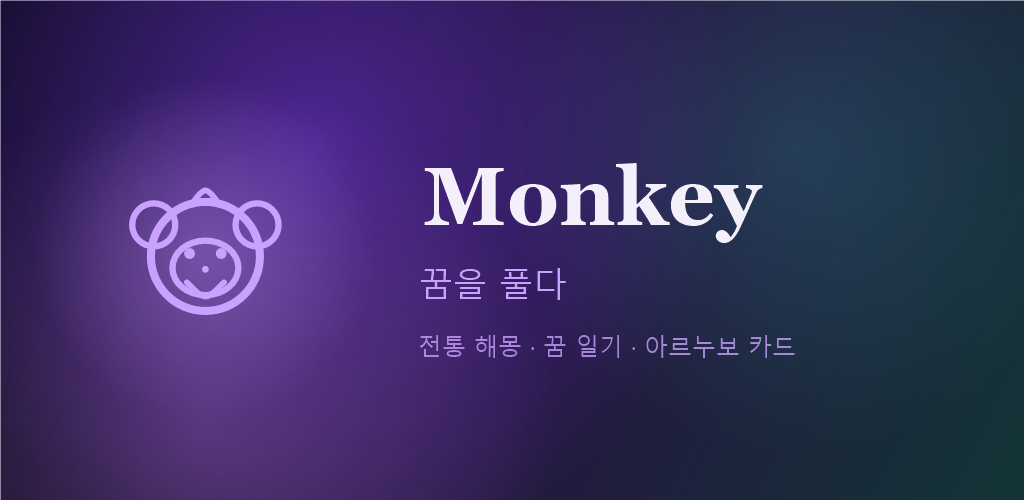
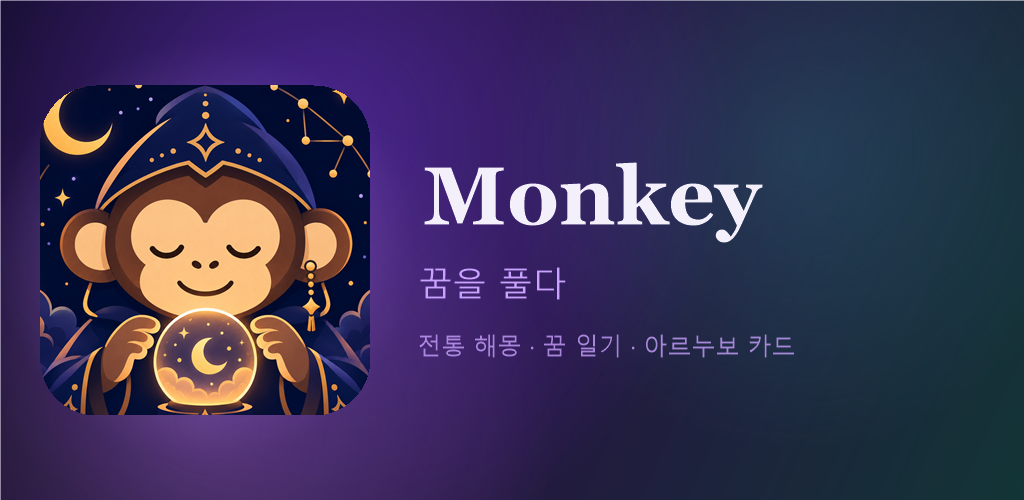
feat(store-assets): 스토어 그래픽의 원숭이를 앱 아이콘 일러스트로 통일
앱 안(런처/스플래시/인앱 마스코트)은 원숭이 점술가 일러스트인데, 스토어
그래픽만 옛 라인아트 원숭이라 두 종류가 섞여 있었다. gen-store-graphics.ps1이
라인아트를 코드로 그려서 만들었고(Draw-Mascot), 아이콘 교체(07-12) 이후
피처 그래픽은 재생성되지 않았던 탓.

- gen-store-graphics.ps1: Draw-Mascot 제거, icon.png를 둥근 사각형으로
  합성하는 Draw-MonkeyIcon으로 교체. 크롭 비율은 apply-monkey-icon.ps1과 동일.
- gen-store-graphics.ps1: icon-512.png 생성 코드 제거. 재실행 시 좋은 아이콘을
  옛 라인아트로 덮어쓰는 사고를 막는다. 아이콘 계열은 apply-monkey-icon.ps1이
  단독 소유.
- refresh-splash-screenshot.py 신규: 스플래시 스크린샷의 마스코트만 교체.
  SplashScreen(halo 148dp) + Mascot(92dp, 모서리 22%, glow 16%) 규칙을 그대로
  재현하고, 스크린샷에서 halo 지름을 실측(388px)해 밀도 2.6216을 역산했다.
- 스크린샷 6장 전수 확인 결과 원숭이가 나오는 건 splash 1장뿐.

diff --git a/scripts/refresh-splash-screenshot.py b/scripts/refresh-splash-screenshot.py
@@ -1,0 +1,91 @@
+# scripts/refresh-splash-screenshot.py
+# ---------------------------------------------------------------
+# docs/release/store-assets/screenshot-1-splash.png 의 마스코트를
+# 옛 라인아트 원숭이 → 현재 앱이 실제로 렌더하는 원숭이 점술가 일러스트로 교체한다.
+#
+# 왜 합성인가: 스크린샷은 2026-07-11 캡처분이고, 원숭이 아이콘 교체는 07-12였다.
+# 에뮬레이터 재캡처가 정석이지만(빌드+Metro+설치 필요), 스플래시 화면은 정적이라
+# 앱의 실제 렌더 규칙을 그대로 재현하면 재캡처와 동일한 결과가 나온다.
+#
+# 재현하는 규칙 (frontend/src/screens/SplashScreen.tsx + components/Mascot.tsx):
+#   - halo: 148dp 원. 이 스크린샷에서 지름 388px으로 실측 → density 388/148 = 2.6216
+#   - Mascot: size=92dp, borderRadius = size*0.22, resizeMode="cover"
+#   - holo=true: shadowColor #8B5CF6, opacity 0.7, radius = size*0.16
+#   - wrap 테두리: hairline, rgba(201,162,255,0.35)
+#
+# 사용: python scripts/refresh-splash-screenshot.py
+# ---------------------------------------------------------------
+from pathlib import Path
+
+from PIL import Image, ImageDraw, ImageFilter
+
+ROOT = Path(__file__).resolve().parent.parent
+SHOT = ROOT / "docs" / "release" / "store-assets" / "screenshot-1-splash.png"
+MASCOT = ROOT / "frontend" / "assets" / "images" / "mascot.png"
+
+# 스크린샷에서 실측한 halo 원 (밝기 경계 스캔으로 구함)
+HALO_CX, HALO_CY = 543, 1076
+HALO_DIAMETER_PX = 388
+HALO_DP = 148.0
+DENSITY = HALO_DIAMETER_PX / HALO_DP  # ≈ 2.6216
+
+MASCOT_DP = 92.0
+RADIUS_RATIO = 0.22
+GLOW_RATIO = 0.16
+GLOW_COLOR = (139, 92, 246)  # Colors.holoViolet #8B5CF6
+GLOW_ALPHA = int(0.7 * 255)
+BORDER_COLOR = (201, 162, 255, int(0.35 * 255))
+
+# 4x 슈퍼샘플 후 축소 — 라운드 모서리 계단 현상 방지(apply-card-labels.py와 같은 방식)
+SS = 4
+
+
+def rounded_mask(size: int, radius: int) -> Image.Image:
+    m = Image.new("L", (size * SS, size * SS), 0)
+    ImageDraw.Draw(m).rounded_rectangle(
+        [0, 0, size * SS - 1, size * SS - 1], radius=radius * SS, fill=255
+    )
+    return m.resize((size, size), Image.LANCZOS)
+
+
+def main() -> None:
+    shot = Image.open(SHOT).convert("RGBA")
+    mascot = Image.open(MASCOT).convert("RGBA")
+
+    size = int(round(MASCOT_DP * DENSITY))          # 92dp  → 241px
+    radius = int(round(MASCOT_DP * RADIUS_RATIO * DENSITY))  # 20.24dp → 53px
+    glow_radius = MASCOT_DP * GLOW_RATIO * DENSITY  # 14.7dp → 38.6px
+
+    left, top = HALO_CX - size // 2, HALO_CY - size // 2
+    mask = rounded_mask(size, radius)
+
+    # 1) 보라 발광(그림자)을 마스코트 뒤에 깔기
+    glow = Image.new("RGBA", shot.size, (0, 0, 0, 0))
+    gd = ImageDraw.Draw(glow)
+    gd.rounded_rectangle(
+        [left, top, left + size, top + size],
+        radius=radius,
+        fill=GLOW_COLOR + (GLOW_ALPHA,),
+    )
+    glow = glow.filter(ImageFilter.GaussianBlur(glow_radius / 2.0))
+    shot = Image.alpha_composite(shot, glow)
+
+    # 2) 마스코트 본체 (cover: 원본이 정사각이라 그대로 축소)
+    art = mascot.resize((size, size), Image.LANCZOS)
+    shot.paste(art, (left, top), mask)
+
+    # 3) hairline 테두리
+    od = ImageDraw.Draw(shot, "RGBA")
+    od.rounded_rectangle(
+        [left, top, left + size - 1, top + size - 1],
+        radius=radius,
+        outline=BORDER_COLOR,
+        width=2,
+    )
+
+    shot.convert("RGB").save(SHOT)
+    print(f"updated {SHOT.name}: mascot {size}px r{radius} at ({HALO_CX},{HALO_CY})")
+
+
+if __name__ == "__main__":
+    main()

diff --git a/docs/release/store-assets/README.md b/docs/release/store-assets/README.md
@@ -1,7 +1,19 @@
 # Play Store 그래픽 에셋
 
-`scripts/gen-store-graphics.ps1`(아이콘·피처그래픽) + 에뮬레이터 실기 캡처(스크린샷)로 생성.
 Play Console > 스토어 등록정보에 업로드하세요. 문구는 `../store-listing.md` 참고.
+
+## ⚠ 원숭이 그래픽은 한 종류만 — `icon.png` 일러스트
+`icon.png`(원숭이 점술가)가 **모든 원숭이 그래픽의 단일 원본**입니다.
+2026-07-26 이전에는 `gen-store-graphics.ps1`이 옛 라인아트 원숭이를 코드로 그려서,
+피처 그래픽·스플래시 스크린샷에만 옛 원숭이가 남아 **두 종류가 섞여 있었습니다.** 지금은 통일됨.
+
+| 산출물 | 만드는 스크립트 |
+|---|---|
+| `icon-512.png`, 인앱 `mascot.png`, 런처 mipmap, `splash_logo.png` | `scripts/apply-monkey-icon.ps1` |
+| `feature-graphic-1024x500.png` | `scripts/gen-store-graphics.ps1` |
+| `screenshot-1-splash.png`의 마스코트 | `scripts/refresh-splash-screenshot.py` |
+
+`gen-store-graphics.ps1`은 더 이상 `icon-512.png`를 만들지 않습니다(덮어쓰기 사고 방지).
 
 ## 파일
 
@@ -21,6 +33,9 @@ Play Console > 스토어 등록정보에 업로드하세요. 문구는 `../store
 
 ## 재생성 방법
 
-- 아이콘·피처그래픽: PowerShell에서 `& "scripts\gen-store-graphics.ps1"` (색/문구는 스크립트 상수 수정).
-- 스크린샷: 에뮬레이터에서 원하는 화면 띄우고
+- 아이콘 계열(런처/인앱/스플래시/512): `& "scripts\apply-monkey-icon.ps1"`
+- 피처 그래픽: `& "scripts\gen-store-graphics.ps1"` (색/문구는 스크립트 상수 수정)
+- 스플래시 스크린샷의 마스코트만 갱신: `python scripts/refresh-splash-screenshot.py`
+- 스크린샷 전체 재캡처: 에뮬레이터에서 원하는 화면 띄우고
   `adb exec-out screencap -p > shot.png`
+  (재캡처하면 `refresh-splash-screenshot.py`를 다시 돌릴 필요 없음 — 앱이 이미 새 원숭이를 렌더함)
